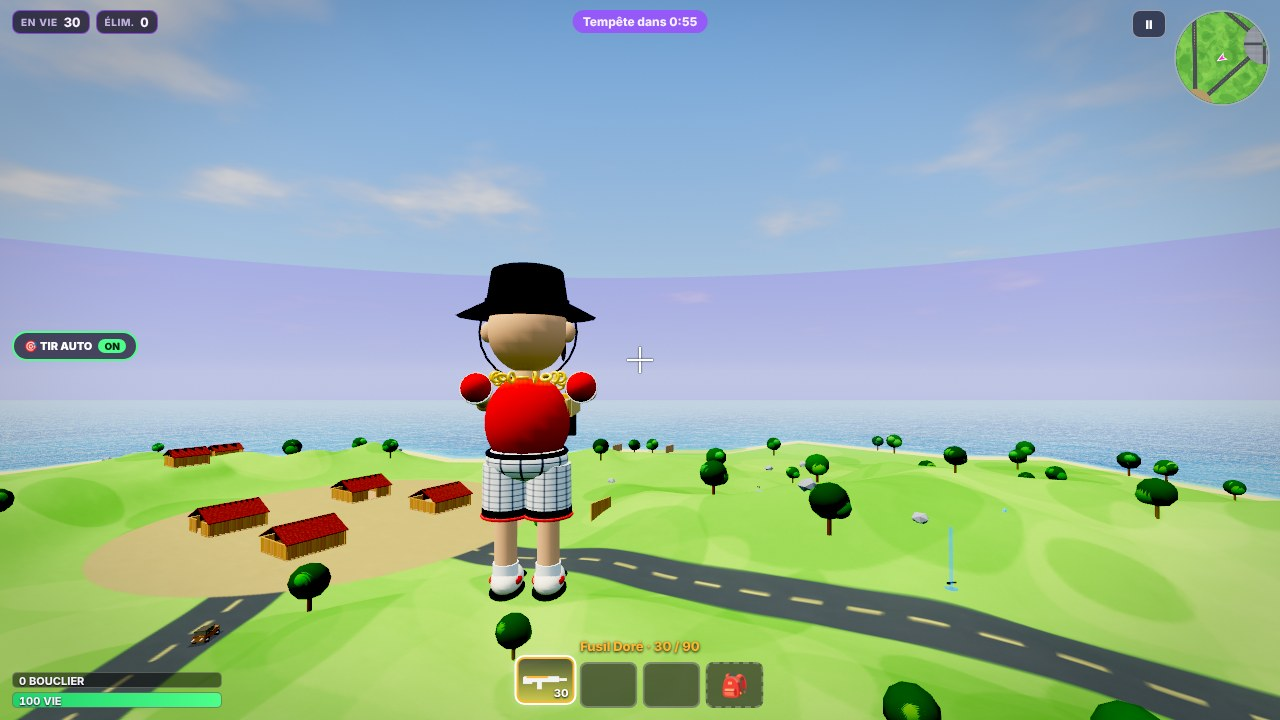
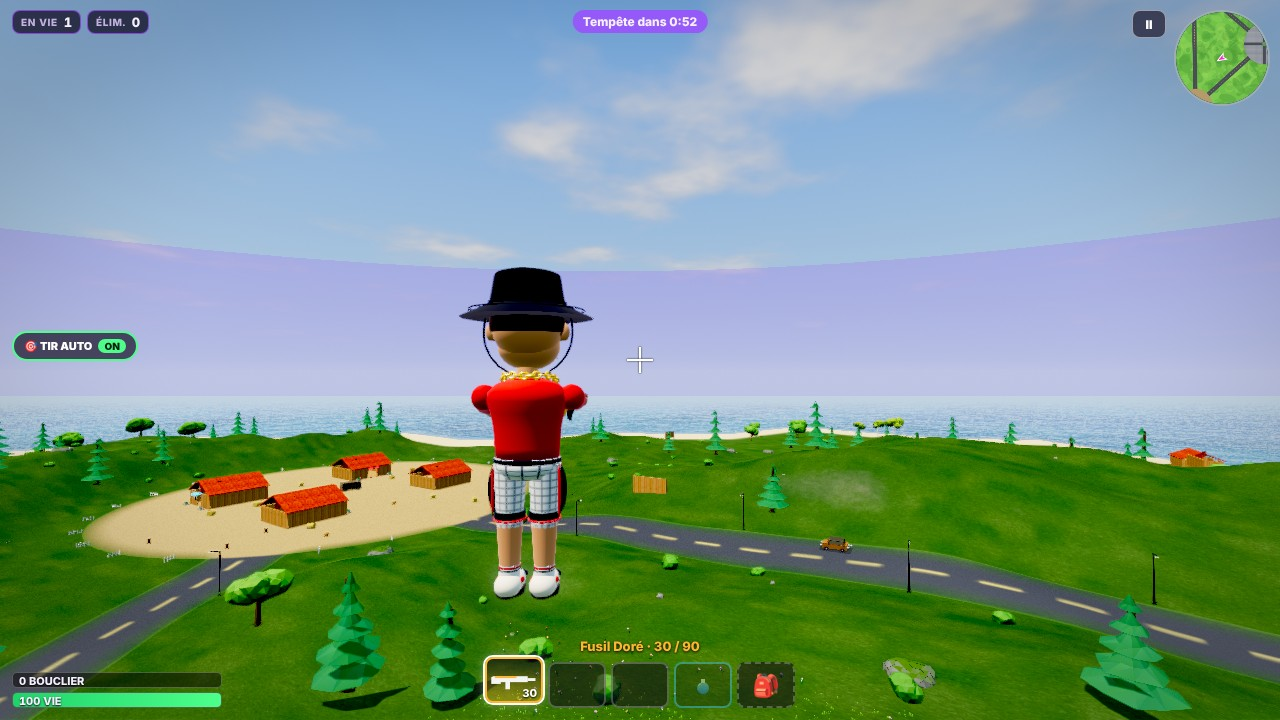
Wald Royal : persos en un bloc, cheveux et barbe qui épousent la tête, grosse chaîne W, bots sculptés et variés, nouvelles images sur le site et la page du jeu
Claude-Session: https://claude.ai/code/session_014qj46x89UK9GigraS19ptH

diff --git a/jeu/skins.js b/jeu/skins.js
@@ -6,7 +6,7 @@
   var T3 = null, GS = null, MC = {}, TX = {};
   function init(THREE) {
     if (T3) return; T3 = THREE;
-    GS = new THREE.SphereGeometry(1, 18, 13);
+    GS = new THREE.SphereGeometry(1, 26, 18);
   }
   function tex(key, w, h, draw, rx, ry) {
     if (TX[key]) return TX[key];
@@ -42,20 +42,33 @@
   function TUBE(par, pts, r, mt, sg) { var cv = new T3.CatmullRomCurve3(pts.map(function (p) { return new T3.Vector3(p[0], p[1], p[2]); })); return par.add(new T3.Mesh(new T3.TubeGeometry(cv, sg || Math.max(14, pts.length * 3), r, 5, false), mt)); }
 
   // fusionne les meshes enfants directs d'un groupe, par matériau
+  // fusionne TOUS les morceaux d'une partie du corps en un seul mesh (une géométrie avec des groupes, un matériau par groupe)
   function merge(g) {
-    var by = {}, kids = g.children.filter(function (o) { return o.isMesh; });
-    kids.forEach(function (m) { (by[m.material.uuid] = by[m.material.uuid] || { mat: m.material, list: [] }).list.push(m); });
-    Object.keys(by).forEach(function (k) {
-      var list = by[k].list; if (list.length < 2) return;
-      var parts = list.map(function (m) { m.updateMatrix(); var geo = m.geometry.index ? m.geometry.toNonIndexed() : m.geometry.clone(); geo.applyMatrix4(m.matrix); return geo; });
-      var n = 0; parts.forEach(function (p) { n += p.attributes.position.count; });
-      var pos = new Float32Array(n * 3), nor = new Float32Array(n * 3), uv = new Float32Array(n * 2), o = 0;
-      parts.forEach(function (p) { pos.set(p.attributes.position.array, o * 3); nor.set(p.attributes.normal.array, o * 3); if (p.attributes.uv) uv.set(p.attributes.uv.array, o * 2); o += p.attributes.position.count; p.dispose(); });
-      var mg = new T3.BufferGeometry(); mg.setAttribute('position', new T3.BufferAttribute(pos, 3)); mg.setAttribute('normal', new T3.BufferAttribute(nor, 3)); mg.setAttribute('uv', new T3.BufferAttribute(uv, 2)); mg.computeBoundingSphere();
-      list.forEach(function (m) { g.remove(m); }); g.add(new T3.Mesh(mg, by[k].mat));
-    });
+    var kids = g.children.filter(function (o) { return o.isMesh; }); if (kids.length < 2) return;
+    var mats = [], by = {}; kids.forEach(function (m) { var k = m.material.uuid; if (!by[k]) { by[k] = []; mats.push(m.material); } by[k].push(m); });
+    var parts = [], groups = [], n = 0;
+    mats.forEach(function (mt, mi) { var start = n; by[mt.uuid].forEach(function (m) { m.updateMatrix(); var geo = m.geometry.index ? m.geometry.toNonIndexed() : m.geometry.clone(); geo.applyMatrix4(m.matrix); parts.push(geo); n += geo.attributes.position.count; }); groups.push([start, n - start, mi]); });
+    var pos = new Float32Array(n * 3), nor = new Float32Array(n * 3), uv = new Float32Array(n * 2), o = 0;
+    parts.forEach(function (p) { pos.set(p.attributes.position.array, o * 3); nor.set(p.attributes.normal.array, o * 3); if (p.attributes.uv) uv.set(p.attributes.uv.array, o * 2); o += p.attributes.position.count; p.dispose(); });
+    var mg = new T3.BufferGeometry(); mg.setAttribute('position', new T3.BufferAttribute(pos, 3)); mg.setAttribute('normal', new T3.BufferAttribute(nor, 3)); mg.setAttribute('uv', new T3.BufferAttribute(uv, 2));
+    groups.forEach(function (q) { mg.addGroup(q[0], q[1], q[2]); }); mg.computeBoundingSphere();
+    kids.forEach(function (m) { g.remove(m); }); var one = new T3.Mesh(mg, mats); one.name = 'bloc'; g.add(one);
   }
-
+  // coque : morceau de sphère qui épouse la tête (cheveux, barbe). phi = 0 est l'arrière de la tête, theta = 0 le sommet
+  function shell(par, rx, ry, rz, x, y, z, mt, ph0, phL, th0, thL) { var m = new T3.Mesh(new T3.SphereGeometry(1, 30, 20, ph0, phL, th0, thL), mt); m.scale.set(rx, ry, rz); return place(m, par, x, y, z); }
+  function hairTex(key, base, dark, light) { return { map: tex(key, 256, 128, function (g, w, h) { g.fillStyle = base; g.fillRect(0, 0, w, h); for (var i = 0; i < 2600; i++) { var x = Math.random() * w, y = Math.random() * h, l = 2 + Math.random() * 5; g.strokeStyle = Math.random() < .5 ? dark : light; g.lineWidth = .8 + Math.random(); g.beginPath(); g.moveTo(x, y); g.lineTo(x + (Math.random() - .5) * 2, y + l); g.stroke(); } }, 3, 2) }; }
+  // grosse chaîne en or façon gourmette, qui tombe sur le torse, avec un médaillon W
+  function bigChain(par, gold) {
+    var cv = new T3.CatmullRomCurve3([[-.13, 1.63, 0], [-.07, 1.635, .15], [.07, 1.6, .2], [.2, 1.5, .15], [.255, 1.4, .05], [.255, 1.4, -.05], [.2, 1.5, -.15], [.07, 1.6, -.2], [-.07, 1.635, -.15]].map(function (q) { return new T3.Vector3(q[0], q[1], q[2]); }), true);
+    var N = 30, up = new T3.Vector3(), tg = new T3.Vector3(), q = new T3.Quaternion(), geo = new T3.TorusGeometry(.024, .009, 6, 12);
+    for (var i = 0; i < N; i++) { var t = i / N, p = cv.getPointAt(t); cv.getTangentAt(t, tg); var m = new T3.Mesh(geo, gold); m.position.copy(p); q.setFromUnitVectors(new T3.Vector3(1, 0, 0), tg); m.quaternion.copy(q); m.rotateX(i % 2 ? Math.PI / 2 : 0); m.scale.set(1.25, 1, 1); par.add(m); }
+    var med = new T3.Mesh(new T3.CylinderGeometry(.055, .055, .018, 24), gold); med.rotation.z = Math.PI / 2; med.position.set(.27, 1.34, 0); par.add(med);
+    var w = new T3.Shape(); [[-.035, .025], [-.02, -.025], [-.006, .005], [.006, -.025]].forEach(function () {});
+    var pts = [[-.04, .03], [-.025, .03], [-.016, -.008], [-.006, .018], [.006, .018], [.016, -.008], [.025, .03], [.04, .03], [.022, -.032], [.01, -.032], [0, -.006], [-.01, -.032], [-.022, -.032]];
+    pts.forEach(function (p, k) { if (k) w.lineTo(p[0], p[1]); else w.moveTo(p[0], p[1]); }); w.closePath();
+    var wg = new T3.ExtrudeGeometry(w, { depth: .008, bevelEnabled: false }); var wm = new T3.Mesh(wg, M('#16081f', { shininess: 80 })); wm.rotation.y = Math.PI / 2; wm.position.set(.281, 1.34, .0); par.add(wm);
+    var bail = new T3.Mesh(new T3.TorusGeometry(.016, .006, 6, 10), gold); bail.position.set(.265, 1.405, 0); bail.rotation.y = Math.PI / 2; par.add(bail);
+  }
   function rig() {
     var root = new T3.Group(), body = new T3.Group(); root.add(body);
     function limb(px, py, pz) { var p = new T3.Group(); p.position.set(px, py, pz); body.add(p); return p; }
@@ -103,12 +116,12 @@
     [R.lL, R.lR].forEach(function (l) { leg(l, chk, skin, { hem: navy, hemY: -.36, pipe: pip }); seg(l, .09, .085, -.22, -.36, chk); C(l, .08, .078, .1, 0, -.78, 0, socks); shoe(l, cream, sole, red); S(l, .06, .035, .106, .17, -.87, 0, navy); });
     lathe(R.body, [[0, .86], [.2, .87], [.245, .94], [.25, 1.02], [.0, 1.03]], chk); TO(R.body, .245, .018, 0, 0, 1.0, 0, navy, Math.PI / 2, 0, 0).scale.set(.74, 1, 1);
     lathe(R.body, [[0, .98], [.24, .99], [.245, 1.1], [.255, 1.24], [.28, 1.36], [.31, 1.45], [.3, 1.51], [.24, 1.57], [.13, 1.61], [0, 1.62]], red);
-    C(R.body, .075, .085, .22, 0, 1.68, 0, skin); chainLinks(R.body, .035, 1.6, .17, .21, .14, .032, .012, gold);
+    C(R.body, .075, .085, .22, 0, 1.68, 0, skin); TO(R.body, .105, .018, 0, .0, 1.6, 0, red, Math.PI / 2, 0, 0).scale.set(1, 1.15, 1); bigChain(R.body, gold);
     [R.aL, R.aR].forEach(function (a) { arm(a, red, skin, { len: .2, stripe: white }); });
     var h = R.head;
     S(h, .27, .29, .27, -.01, .16, 0, skin); S(h, .23, .18, .235, .04, -.01, 0, skin); S(h, .06, .07, .09, .2, -.08, 0, skin);
     S(h, .045, .055, .045, .29, .1, 0, skin); S(h, .03, .025, .035, .3, .065, 0, skin);
-    eachSide(function (s) { S(h, .035, .07, .05, -.01, .1, s * .27, skin); S(h, .05, .1, .015, .12, -.01, s * .232, beard); S(h, .03, .05, .1, .21, .2, s * .11, lens); });
+    eachSide(function (s) { S(h, .035, .07, .05, -.01, .1, s * .27, skin); S(h, .012, .02, .02, -.005, .1, s * .3, skin); S(h, .03, .05, .1, .21, .2, s * .11, lens); });
     S(h, .055, .065, .07, .22, -.11, 0, beard); S(h, .025, .018, .1, .27, .03, 0, beard); S(h, .015, .01, .065, .275, -.01, 0, lip);
     S(h, .028, .02, .27, .23, .245, 0, navy); eachSide(function (s) { S(h, .035, .075, .1, .255, .19, s * .11, lens); C(h, .006, .006, .24, .12, .23, s * .27, navy, 0, 0, Math.PI / 2); });
     C(h, .25, .29, .24, -.01, .4, 0, hat); S(h, .25, .055, .25, -.01, .52, 0, hat); C(h, .295, .295, .055, -.01, .3, 0, navy); C(h, .31, .5, .09, -.01, .25, 0, hat);
@@ -116,7 +129,10 @@
     [[R.lL, -1], [R.lR, 1]].forEach(function (q) { var l = q[0], sd = q[1]; S(l, .03, .19, .07, 0, -.17, sd * .1, navy); S(l, .012, .19, .012, .05, -.17, sd * .118, pip); S(l, .012, .19, .012, -.05, -.17, sd * .118, pip);
       C(l, .081, .081, .016, 0, -.745, 0, red); C(l, .081, .081, .01, 0, -.765, 0, navy); laces(l, .05, white); });
     var hairD = M('#2a1c14');
-    TO(h, .2, .016, Math.PI, .07, .04, 0, beard, 0, Math.PI / 2, Math.PI); S(h, .19, .12, .23, -.15, .09, 0, hairD); eachSide(function (s2) { S(h, .07, .06, .03, -.02, .17, s2 * .262, hairD); });
+    var hairM = M('#fff', hairTex('hairW', '#2a1c14', '#120a06', '#4a3424')), beardM = M('#fff', hairTex('beardW', '#5a3a26', '#3a2214', '#7a5236'));
+    shell(h, .283, .3, .283, -.01, .16, 0, hairM, -1.85, 3.7, .55, 1.25);   // cheveux courts : arrière et côtés de la tête, sous le bob
+    shell(h, .238, .188, .243, .04, -.01, 0, beardM, Math.PI - 1.45, 2.9, 1.62, 1.15);   // barbe courte le long de la mâchoire
+    eachSide(function (s2) { shell(h, .275, .29, .275, -.01, .16, 0, beardM, Math.PI / 2 * s2 + Math.PI - (s2 > 0 ? 1.0 : .25), .25, 1.45, .45); });   // pattes
     S(h, .025, .045, .025, .14, -.27, 0, navy); TO(h, .43, .005, 0, -.01, .265, 0, navy, Math.PI / 2); TO(h, .36, .005, 0, -.01, .27, 0, navy, Math.PI / 2);
     S(h, .035, .012, .06, .255, .275, 0, M('#3a3f4c'));
     return { skin: '#dc9a72', shirt: '#c8101c', pants: '#f1f1f1' };
@@ -161,9 +177,10 @@
     eachSide(function (s) { S(h, .045, .09, .078, .27, .22, s * .12, eyeW); S(h, .03, .075, .063, .292, .21, s * .12, iris); S(h, .02, .045, .042, .308, .21, s * .12, dark); S(h, .01, .02, .02, .318, .25, s * .1, eyeW); S(h, .02, .024, .085, .28, .34, s * .13, hair, s * .15, 0, 0); S(h, .02, .036, .055, .27, .1, s * .18, blush); });
     S(h, .035, .04, .035, .32, .15, 0, skin); TO(h, .055, .011, Math.PI, .3, .075, 0, lip, 0, Math.PI / 2, Math.PI);
     S(h, .33, .4, .37, -.09, .17, 0, hair); S(h, .28, .14, .33, .01, .45, 0, hair); S(h, .12, .07, .24, .19, .43, .04, hair, 0, 0, -.3);
-    for (var k = 0; k < 34; k++) { var a = Math.PI * .32 + (k % 12) / 11 * Math.PI * 1.36, yy = .48 - Math.floor(k / 12) * .3 - (k % 2) * .08, rr = .34 + (k % 3) * .02; if (yy < -.28) yy = -.28; var cr = .1 + (k % 4) * .014; S(h, cr, cr * 1.1, cr, Math.cos(a) * rr - .05, yy, Math.sin(a) * rr * 1.04, hair); }
+    var hairT = M('#fff', Object.assign(hairTex('hairL', '#5a3424', '#3a1e12', '#7a4a32'), { shininess: 35 }));
+    shell(h, .37, .44, .39, -.07, .14, 0, hairT, -2.1, 4.2, 0, 2.3); shell(h, .35, .2, .36, .0, .38, 0, hairT, 0, 6.283, 0, 1.5);   // masse lisse de cheveux avec mèches
     var hair2 = M('#6b4030', { shininess: 45 }), lash = M('#1a0f0a'), jean2 = M('#4d6ea3');
-    for (var c = 0; c < 22; c++) { var aa = Math.PI * .38 + c / 21 * Math.PI * 1.24, rr2 = .36 + (c % 2) * .05, yy2 = .3 - (c % 3) * .1; curl(h, Math.cos(aa) * rr2 - .06, yy2, Math.sin(aa) * rr2 * 1.04, .42 + (c % 4) * .07, .045, 2.2, .032, c % 3 ? hair : hair2, -Math.cos(aa) * .03, Math.sin(aa) * .05); }
+    for (var c = 0; c < 34; c++) { var aa = Math.PI * .34 + c / 33 * Math.PI * 1.32, rr2 = .36 + (c % 2) * .05, yy2 = .3 - (c % 3) * .1; curl(h, Math.cos(aa) * rr2 - .06, yy2, Math.sin(aa) * rr2 * 1.04, .42 + (c % 4) * .07, .045, 2.2, .032, c % 3 ? hair : hair2, -Math.cos(aa) * .03, Math.sin(aa) * .05); }
     for (var c2 = 0; c2 < 8; c2++) { var a2 = -.9 + c2 * .26; curl(h, .1 + Math.cos(a2) * .05, .52, Math.sin(a2) * .3, .18, .03, 1.5, .03, hair2, .08, 0); }
     eachSide(function (s2) { S(h, .008, .012, .075, .305, .3, s2 * .12, lash, s2 * .2, 0, 0); S(h, .006, .025, .01, .3, .31, s2 * .175, lash, 0, 0, .4); });
     C(R.body, .225, .225, .05, 0, 1.0, 0, jean2); S(R.body, .015, .015, .015, .17, 1.0, 0, M('#d8b04a', { shininess: 90 })); S(R.body, .01, .14, .01, .17, .86, 0, jean2);
@@ -194,9 +211,33 @@
     return { skin: '#efb894', shirt: '#3b3448', pants: '#8ea5d6' };
   };
 
+
+  /* ---------- BOTS : même corps sculpté que les skins, tenues variées selon o.v ---------- */
+  B.npc = function (R, o) {
+    o = o || {}; var v = o.v || 0, skin = M(o.skin || '#e0ac85'), shirt = M(o.shirt || '#3dd6ff'), pants = M(o.pants || '#2b3a67'), sole = M('#1c1c22'), white = M('#f2f2f2'), dark = M('#151515');
+    var HC = ['#1c1410', '#4a2e1a', '#8a5a2a', '#d8b060', '#2a2a30', '#b8483a'], hc = HC[v % HC.length], hairM = M('#fff', hairTex('hairN' + hc, hc, '#0a0806', '#7a6a5a')), hoodie = v % 3 === 2, shorts = v % 4 === 1, hat = ['cap', 'beanie', 'none', 'bob', 'none', 'cap'][v % 6];
+    [R.lL, R.lR].forEach(function (l) { leg(l, pants, shorts ? skin : pants, shorts ? { hem: pants, hemY: -.34 } : null); if (shorts) seg(l, .1, .09, -.2, -.34, pants); shoe(l, M(o.shoes || '#eeeeee'), sole, shirt); laces(l, .05, white); });
+    lathe(R.body, [[0, .86], [.2, .87], [.245, .94], [.25, 1.02], [0, 1.03]], pants); TO(R.body, .245, .016, 0, 0, 1.0, 0, dark, Math.PI / 2, 0, 0).scale.set(.74, 1, 1);
+    lathe(R.body, [[0, .98], [.24, .99], [.25, 1.1], [.26, 1.24], [.285, 1.36], [.31, 1.45], [.3, 1.51], [.24, 1.57], [.13, 1.61], [0, 1.62]], shirt);
+    C(R.body, .075, .085, .22, 0, 1.68, 0, skin);
+    if (hoodie) { TO(R.body, .16, .06, 0, -.06, 1.6, 0, shirt, Math.PI / 2 + .3, 0, 0).scale.set(1, 1.2, 1); S(R.body, .04, .12, .17, .2, 1.15, 0, shirt); eachSide(function (s2) { C(R.body, .006, .006, .18, .2, 1.48, s2 * .05, white); }); }
+    else TO(R.body, .1, .016, 0, 0, 1.6, 0, shirt, Math.PI / 2, 0, 0);
+    [R.aL, R.aR].forEach(function (a) { arm(a, shirt, skin, { len: hoodie ? .5 : .2, cuff: hoodie ? shirt : null }); });
+    var h = R.head;
+    S(h, .26, .28, .26, -.01, .15, 0, skin); S(h, .22, .17, .225, .04, -.01, 0, skin); S(h, .04, .05, .04, .28, .1, 0, skin);
+    eachSide(function (s2) { S(h, .035, .065, .05, -.01, .1, s2 * .26, skin); S(h, .03, .042, .036, .235, .17, s2 * .09, M('#ffffff', { shininess: 80 })); S(h, .016, .028, .022, .262, .165, s2 * .09, dark); S(h, .012, .014, .055, .245, .235, s2 * .095, hairM, 0, 0, 0); });
+    TO(h, .05, .009, Math.PI, .262, .02, 0, M('#9a4a3a'), 0, Math.PI / 2, Math.PI);
+    if (v % 4 === 3) shell(h, .228, .178, .233, .04, -.01, 0, hairM, Math.PI - 1.45, 2.9, 1.62, 1.15);   // barbe
+    if (v % 5 === 3) eachSide(function (s2) { TO(h, .05, .008, 0, .255, .17, s2 * .09, dark, 0, Math.PI / 2, 0); });   // lunettes rondes
+    if (hat !== 'cap' && hat !== 'beanie') shell(h, .272, .29, .272, -.01, .15, 0, hairM, -1.9, 3.8, 0, 1.75);   // cheveux
+    if (hat === 'cap') { var cm = M(o.hatCol || '#e83a3a'); shell(h, .275, .27, .275, -.01, .17, 0, cm, 0, 6.283, 0, 1.45); var vis = new T3.Mesh(new T3.CylinderGeometry(.2, .2, .02, 20, 1, false, -Math.PI / 2, Math.PI), cm); vis.scale.set(1.15, 1, 1); place(vis, h, .17, .2, 0, 0, 0, -.12); S(h, .02, .02, .02, -.01, .44, 0, cm); shell(h, .272, .29, .272, -.01, .15, 0, hairM, -1.2, 2.4, 1.3, .4); }
+    else if (hat === 'beanie') { var bm = M(o.hatCol || '#7a2ab8'); shell(h, .28, .3, .28, -.01, .16, 0, bm, 0, 6.283, 0, 1.4); TO(h, .27, .035, 0, -.01, .21, 0, bm, Math.PI / 2, 0, 0); S(h, .07, .07, .07, -.01, .47, 0, white); }
+    else if (hat === 'bob') { var hm = M(o.hatCol || '#ffb23d'); C(h, .23, .27, .2, -.01, .37, 0, hm); S(h, .23, .05, .23, -.01, .47, 0, hm); C(h, .28, .44, .07, -.01, .26, 0, hm); }
+    return { skin: o.skin || '#e0ac85', shirt: o.shirt || '#3dd6ff', pants: o.pants || '#2b3a67' };
+  };
   window.SKIN_IDS = ['wald', 'flubb', 'lea', 'stan'];
-  window.buildSkin = function (THREE, id) {
-    init(THREE); var R = rig(), cols = (B[id] || B.wald)(R);
+  window.buildSkin = function (THREE, id, opts) {
+    init(THREE); var R = rig(), cols = (B[id] || B.wald)(R, opts);
     [R.body, R.lL, R.lR, R.aL, R.aR, R.head].forEach(merge);
     R.cols = cols; return R;
   };

diff --git a/wald-royal/index.html b/wald-royal/index.html
@@ -194,15 +194,17 @@ footer a{color:var(--cyan)}
   <h2>Ça ressemble à <em>ça</em></h2>
   <p class="lead">Touche une image pour l'agrandir.</p>
   <div class="gal">
-    <button class="shot big" type="button" data-src="img/ville.jpg"><img src="img/ville.jpg" alt="Wald Off au milieu des tours vitrées de Turbo Towers" width="1280" height="720"><span class="cap">Turbo Towers, la ville moderne au centre de la map</span></button>
-    <button class="shot" type="button" data-src="img/lawald.jpg"><img src="img/lawald.jpg" alt="La Wald cabriolet qui roule dans les collines" width="1280" height="720"><span class="cap">Au volant de La Wald</span></button>
-    <button class="shot" type="button" data-src="img/saut.jpg"><img src="img/saut.jpg" alt="Vue du ciel pendant le saut du bus volant" width="1280" height="720"><span class="cap">Le saut depuis le bus volant</span></button>
-    <button class="shot" type="button" data-src="img/collines.jpg"><img src="img/collines.jpg" alt="Les collines de Los Campagnes avec trois armes dans l'inventaire" width="1280" height="720"><span class="cap">Les collines de Los Campagnes</span></button>
-    <button class="shot" type="button" data-src="img/combat.jpg"><img src="img/combat.jpg" alt="Combat au Fusil Doré face à un joueur" width="1280" height="720"><span class="cap">Tir auto activé</span></button>
-    <button class="shot" type="button" data-src="img/lobby.jpg"><img src="img/lobby.jpg" alt="Le menu du jeu avec le perso et La Wald" width="1280" height="720"><span class="cap">Le lobby</span></button>
-    <button class="shot" type="button" data-src="img/boutique.jpg"><img src="img/boutique.jpg" alt="La boutique du jeu avec les skins Flubb, Léa et Stan" width="1280" height="720"><span class="cap">La boutique de skins</span></button>
-    <button class="shot" type="button" data-src="img/mer.jpg"><img src="img/mer.jpg" alt="L'herbe qui ondule au vent face à la mer animée" width="1280" height="720"><span class="cap">Herbe au vent et mer animée</span></button>
-    <button class="shot" type="button" data-src="img/desert.jpg"><img src="img/desert.jpg" alt="La carte désert Sable Rouge avec ses dunes" width="1280" height="720"><span class="cap">Sable Rouge, la carte désert</span></button>
+    <button class="shot big" type="button" data-src="img/place.jpg"><img src="img/place.jpg" alt="La place de Turbo Towers avec sa fontaine et la statue de La Wald en or" width="1280" height="720" loading="lazy"><span class="cap">La place et sa fontaine</span></button>
+    <button class="shot" type="button" data-src="img/ville.jpg"><img src="img/ville.jpg" alt="Les tours cartoon de Turbo Towers avec leurs enseignes néon" width="1280" height="720" loading="lazy"><span class="cap">Turbo Towers</span></button>
+    <button class="shot" type="button" data-src="img/planeur.jpg"><img src="img/planeur.jpg" alt="Wald Off en deltaplane au-dessus de Golden Hollow" width="1280" height="720" loading="lazy"><span class="cap">Le planeur</span></button>
+    <button class="shot" type="button" data-src="img/village.jpg"><img src="img/village.jpg" alt="Golden Hollow, le village en bois avec ses toits de tuiles" width="1280" height="720" loading="lazy"><span class="cap">Golden Hollow</span></button>
+    <button class="shot" type="button" data-src="img/sac.jpg"><img src="img/sac.jpg" alt="Le sac avec les armes et les soins : petit bouclier, gros bouclier, kit de soins" width="1280" height="720" loading="lazy"><span class="cap">Le sac et les soins</span></button>
+    <button class="shot" type="button" data-src="img/boutique.jpg"><img src="img/boutique.jpg" alt="La boutique du jeu avec les skins Léa, Stan et Flubb" width="1280" height="720" loading="lazy"><span class="cap">La boutique de skins</span></button>
+    <button class="shot" type="button" data-src="img/lobby.jpg"><img src="img/lobby.jpg" alt="Le salon du jeu avec le perso et La Wald" width="1280" height="720" loading="lazy"><span class="cap">Le salon</span></button>
+    <button class="shot" type="button" data-src="img/mer.jpg"><img src="img/mer.jpg" alt="Les fleurs et l'herbe au vent face à la mer" width="1280" height="720" loading="lazy"><span class="cap">Herbe au vent et mer</span></button>
+    <button class="shot" type="button" data-src="img/collines.jpg"><img src="img/collines.jpg" alt="Les forêts et les collines de Los Campagnes" width="1280" height="720" loading="lazy"><span class="cap">Los Campagnes</span></button>
+    <button class="shot" type="button" data-src="img/desert.jpg"><img src="img/desert.jpg" alt="La carte désert Sable Rouge" width="1280" height="720" loading="lazy"><span class="cap">Sable Rouge, la carte désert</span></button>
+    <button class="shot" type="button" data-src="img/lawald.jpg"><img src="img/lawald.jpg" alt="La Wald cabriolet qui roule dans les collines" width="1280" height="720" loading="lazy"><span class="cap">Au volant de La Wald</span></button>
   </div>
 </div></section>
 

diff --git a/index.html b/index.html
@@ -134,6 +134,8 @@ footer b{font-family:var(--display);font-weight:400;color:var(--fg)}
 
 /* JEU */
 .game{display:flex;flex-direction:column;gap:12px}
+.gshots{display:grid;grid-template-columns:repeat(4,1fr);gap:8px}.gshots a{position:relative;display:block;border-radius:12px;overflow:hidden;border:2px solid rgba(255,43,214,.5);box-shadow:0 0 14px rgba(155,77,255,.35);aspect-ratio:16/9}.gshots img{width:100%;height:100%;object-fit:cover;display:block;transition:transform .3s}.gshots a:hover img{transform:scale(1.06)}.gshots span{position:absolute;left:6px;bottom:5px;font-weight:800;font-size:11px;color:#fff;text-shadow:0 1px 4px #000}
+@media (max-width:640px){.gshots{grid-template-columns:repeat(2,1fr)}}
 .gcard{display:flex;gap:14px;align-items:center;text-decoration:none;color:var(--fg);background:var(--bg2);border:2px solid #ff2bd6;border-radius:16px;padding:10px;box-shadow:0 0 22px rgba(255,43,214,.35)}
 .gcard img{width:92px;height:92px;object-fit:cover;border-radius:12px;flex:none}
 .gcard span{display:flex;flex-direction:column;gap:2px}.gcard strong{font-family:var(--display);font-weight:400;font-size:15px;color:var(--hazard)}.gcard small{color:var(--mute);font-size:14px}
@@ -230,11 +232,17 @@ footer b{font-family:var(--display);font-weight:400;color:var(--fg)}
   <section class="game" aria-labelledby="game-t">
     <h2 id="game-t">Mon jeu <em>WALD ROYAL</em></h2>
     <a class="mega" href="wald-royal/">
-      <img src="wald-royal/img/ville.jpg" alt="" loading="lazy" class="bgshot">
+      <img src="wald-royal/img/place.jpg" alt="" loading="lazy" class="bgshot">
       <span class="mtop"><img src="jeu/logo.jpg" alt="Logo Wald Royal" loading="lazy"><span><strong>WALD ROYAL</strong><small>Battle royale 3D · 30 joueurs · La Wald</small></span></span>
       <span class="mcta">Clique ici pour découvrir le jeu →</span>
       <span class="mos">Android · PC Windows · iPhone</span>
     </a>
+    <div class="gshots">
+      <a href="wald-royal/#images"><img src="wald-royal/img/ville.jpg" alt="Les tours cartoon de Turbo Towers" loading="lazy"><span>Turbo Towers</span></a>
+      <a href="wald-royal/#images"><img src="wald-royal/img/planeur.jpg" alt="Le deltaplane au-dessus de la map" loading="lazy"><span>Le planeur</span></a>
+      <a href="wald-royal/#images"><img src="wald-royal/img/boutique.jpg" alt="La boutique de skins" loading="lazy"><span>Les skins</span></a>
+      <a href="wald-royal/#images"><img src="wald-royal/img/village.jpg" alt="Golden Hollow" loading="lazy"><span>Golden Hollow</span></a>
+    </div>
   </section>
 
   <footer><b>WALD OFF</b> · fait en France · 2026</footer>

diff --git a/jeu/index.html b/jeu/index.html
@@ -897,7 +897,7 @@ var SKINS = ['#f1c6a0', '#e0ac85', '#c68b5e', '#8d5a3b', '#f5d3b8'];
 var SHIRTS = ['#3dd6ff', '#7dff6a', '#ffb23d', '#c77dff', '#ff7bd5', '#f2f2f2', '#ffd23d', '#5cffc8', '#ff8a3d', '#6a8cff', '#2a2a2a', '#e83a3a'];
 var PANTS = ['#2b3a67', '#333', '#5a4630', '#4c6b3a', '#777', '#1d1d24'];
 function makeChar(lk) {
-  if (lk.sk && window.buildSkin) { var R = window.buildSkin(THREE, lk.sk); Object.assign(lk, R.cols); return charExtras(R, R.root, R.body, lk); }
+  if (lk.sk && window.buildSkin) { var R = window.buildSkin(THREE, lk.sk, lk); Object.assign(lk, R.cols); return charExtras(R, R.root, R.body, lk); }
   var root = new THREE.Group(), body = new THREE.Group(); root.add(body);
   function limb(px, py, pz) { var p = new THREE.Group(); p.position.set(px, py, pz); body.add(p); return p; }
   var lL = limb(0, .95, -.16), lR = limb(0, .95, .16);
@@ -1116,7 +1116,7 @@ var SKINS_SHOP = { wald: { name: 'Wald Off', price: 0, tag: 'Original' }, lea: {
 var NAMES = ['Kevin_Bronze', 'Mamie_Turbo', 'Le_Boulanger', 'Pupuce', 'xX_Noob_Xx', 'Tonton_Diesel', 'Sardine42', 'Captain_Raclette', 'Bébert', 'Lulu_Drift', 'Chef_Kebab', 'Gégé_Rallye', 'Mimi_Sniper', 'Patrick_Bob', 'Jojo_Lapin', 'Dédé_Pneu', 'Nina_Nitro', 'Cassoulet', 'Mr_Pneu', 'La_Daronne', 'Fifi_Build', 'Tata_Ranked', 'Momo_Légende', 'Bob_Le_Pot', 'Riri_Sweat', 'Zizou_09', 'Gaston_Kart', 'Lili_Pompe', 'Doudou_Tilt'];
 var pl = [];
 for (var ib = 0; ib < NPL; ib++) {
-  var isBot = ib > 0, lk = isBot && ib % 3 === 1 ? { sk: ['flubb', 'lea', 'stan'][(ib / 3 | 0) % 3], glider: SHIRTS[(ib + 2) % SHIRTS.length] } : isBot ? { skin: SKINS[ib % SKINS.length], shirt: SHIRTS[ib % SHIRTS.length], pants: PANTS[ib % PANTS.length], legs: SKINS[ib % SKINS.length], shoes: ib % 3 ? '#222' : '#eee', hat: ib % 3 === 0 ? 'cap' : null, hatCol: SHIRTS[(ib + 4) % SHIRTS.length], glider: SHIRTS[(ib + 2) % SHIRTS.length] }
+  var isBot = ib > 0, lk = isBot && ib % 3 === 1 ? { sk: ['flubb', 'lea', 'stan'][(ib / 3 | 0) % 3], glider: SHIRTS[(ib + 2) % SHIRTS.length] } : isBot ? { sk: 'npc', v: ib, skin: SKINS[ib % SKINS.length], shirt: SHIRTS[ib % SHIRTS.length], pants: PANTS[ib % PANTS.length], legs: SKINS[ib % SKINS.length], shoes: ib % 3 ? '#222' : '#eee', hat: ib % 3 === 0 ? 'cap' : null, hatCol: SHIRTS[(ib + 4) % SHIRTS.length], glider: SHIRTS[(ib + 2) % SHIRTS.length] }
     : { sk: mySkin(), glider: '#ff2bd6' };
   var mdl = makeChar(lk); scene.add(mdl.root);
   pl.push({ bot: isBot, name: isBot ? NAMES[ib - 1] : 'WALD OFF', model: mdl, look: lk, inv: [null, null, null], slot: 0 });

diff --git a/jeu/sw.js b/jeu/sw.js
@@ -1,5 +1,5 @@
 // Cache hors-ligne du jeu Wald Royale (3D)
-var V = 'wald-royale-3d-v18';
+var V = 'wald-royale-3d-v19';
 var FILES = ['./', 'index.html', 'manifest.webmanifest', 'three.min.js', 'polo3d.js', 'skins.js', 'nature.js', 'weapons3d.js', 'city.js', 'polo3d.html', 'avatar.jpg', 'logo.jpg', 'sons/polo.mp3', 'sons/wald_off.mp3', 'icons/icon-192.png', 'icons/icon-512.png', 'icons/icon-180.png'];
 self.addEventListener('install', function (e) { e.waitUntil(caches.open(V).then(function (c) { return c.addAll(FILES); }).then(function () { return self.skipWaiting(); })); });
 self.addEventListener('activate', function (e) { e.waitUntil(caches.keys().then(function (ks) { return Promise.all(ks.filter(function (k) { return k !== V; }).map(function (k) { return caches.delete(k); })); }).then(function () { return self.clients.claim(); })); });

diff --git a/CLAUDE.md b/CLAUDE.md
@@ -39,7 +39,7 @@ Ce fichier sert à reprendre le développement du jeu **Wald Royal** dans une no
 | `jeu/weapons3d.js` | `window.buildGun(THREE, k, rarColor)` : armes en profils extrudés biseautés (bois, acier, or, chargeur courbé, lunette, pompe rainuré…), mises à l'échelle par `GUNSCALE` dans `gunModel` ; `window.buildGlider(THREE, col)` : deltaplane (voile texturée W, armature, trapèze, câbles, feux), barre de contrôle aux mains (`glider.position (-.15, 1.98, 0)`) |
 | `jeu/city.js` | `window.CITY.build(THREE, ctx)` : décor des villes en `Kit` instanciés (clims, châteaux d'eau, antennes, panneaux solaires, cabanons, auvents, enseignes néon sans marque, lampadaires le long des routes, bancs, poubelles, bouches d'incendie, abribus, pubs du jeu, conteneurs + grue aux docks, bidons/pneus au ranch, clôtures/foin/puits au village, drapeaux à l'avenue). Rebords de toit, bandeaux d'étage et piliers pour les toits plats. Les gros objets ajoutent des boîtes dans `PCOL` (testées dans `pushCircle`). `house()` mémorise `hs.door` |
 | `jeu/polo3d.html` | Visionneuse 3D de La Wald (rotation, phares, faire rouler) |
-| `jeu/manifest.webmanifest`, `jeu/sw.js` | PWA. Cache `wald-royale-3d-v18` : **monter la version à chaque modif** |
+| `jeu/manifest.webmanifest`, `jeu/sw.js` | PWA. Cache `wald-royale-3d-v19` : **monter la version à chaque modif** |
 | `jeu/logo.jpg`, `jeu/icons/` | Logo et icônes (512/192/180) |
 | `wald-royal/index.html`, `wald-royal/img/*.jpg` | Page vitrine + captures du jeu |
 | `app/android/` | Appli Android : WebView + WebViewAssetLoader, `fr.waldoff.royal` |
@@ -182,6 +182,12 @@ cd /home/claude/wo && (python3 -m http.server 8765 >/dev/null 2>&1 &); sleep 1
 - **Textures des bâtiments refaites en style cartoon peint** (`TX`, avec `rrect` et `srnd`) : briques arrondies avec reflet, planches avec veines et nœuds, tôle ondulée avec rouille cernée, béton en panneaux biseautés, façades avec cadres sombres, reflets peints, rideaux colorés et une pièce éclairée avec plante, tuiles en écailles, parquet.
 - **Sol** : `maskTex` sans mipmaps, et dans le shader le vert de base de la carte n'est jamais utilisé (`isG`) : plus de bande vert fluo le long des routes et des villes. Herbe un peu désaturée.
 - `WR.gfx`, `WR.mask`, `WR.terr` pour les tests.
+
+## Persos en un bloc, bots sculptés, images du site (novembre 2026)
+- **Un bloc par partie du corps** : `merge()` fusionne tous les morceaux d'un groupe (corps, tête, bras, jambes) en un seul mesh avec groupes de géométrie (un matériau par groupe). Sphères en 26×18.
+- **Coques** `shell()` (morceau de sphère qui épouse la tête) : cheveux courts sous le bob et barbe sur la mâchoire du perso Wald (texture `hairTex`), masse de cheveux lisse de Léa + 34 boucles. Le perso Wald a une grosse chaîne en or (`bigChain`, gourmette sur une courbe) avec un médaillon W et le col du t-shirt.
+- **Bots** : skin `npc` (même corps sculpté), variantes par `o.v` : t-shirt ou sweat à capuche, short ou pantalon, casquette, bonnet à pompon, bob ou tête nue, 6 couleurs de cheveux, barbe, lunettes rondes. `buildSkin(THREE, id, opts)` ; les bots sans skin ont `lk.sk = 'npc'`.
+- **Images** : galerie de `wald-royal/` refaite (place, Turbo Towers, planeur, Golden Hollow, sac, boutique, salon, mer, collines, désert, La Wald). Sur l'accueil, le bloc « Mon jeu » a la place en fond et un bandeau de 4 captures (`.gshots`) qui mène à `wald-royal/#images`.
 
 ## Idées en attente / pistes
 - Une clé de signature Android secrète (secret GitHub) avant le Play Store.
